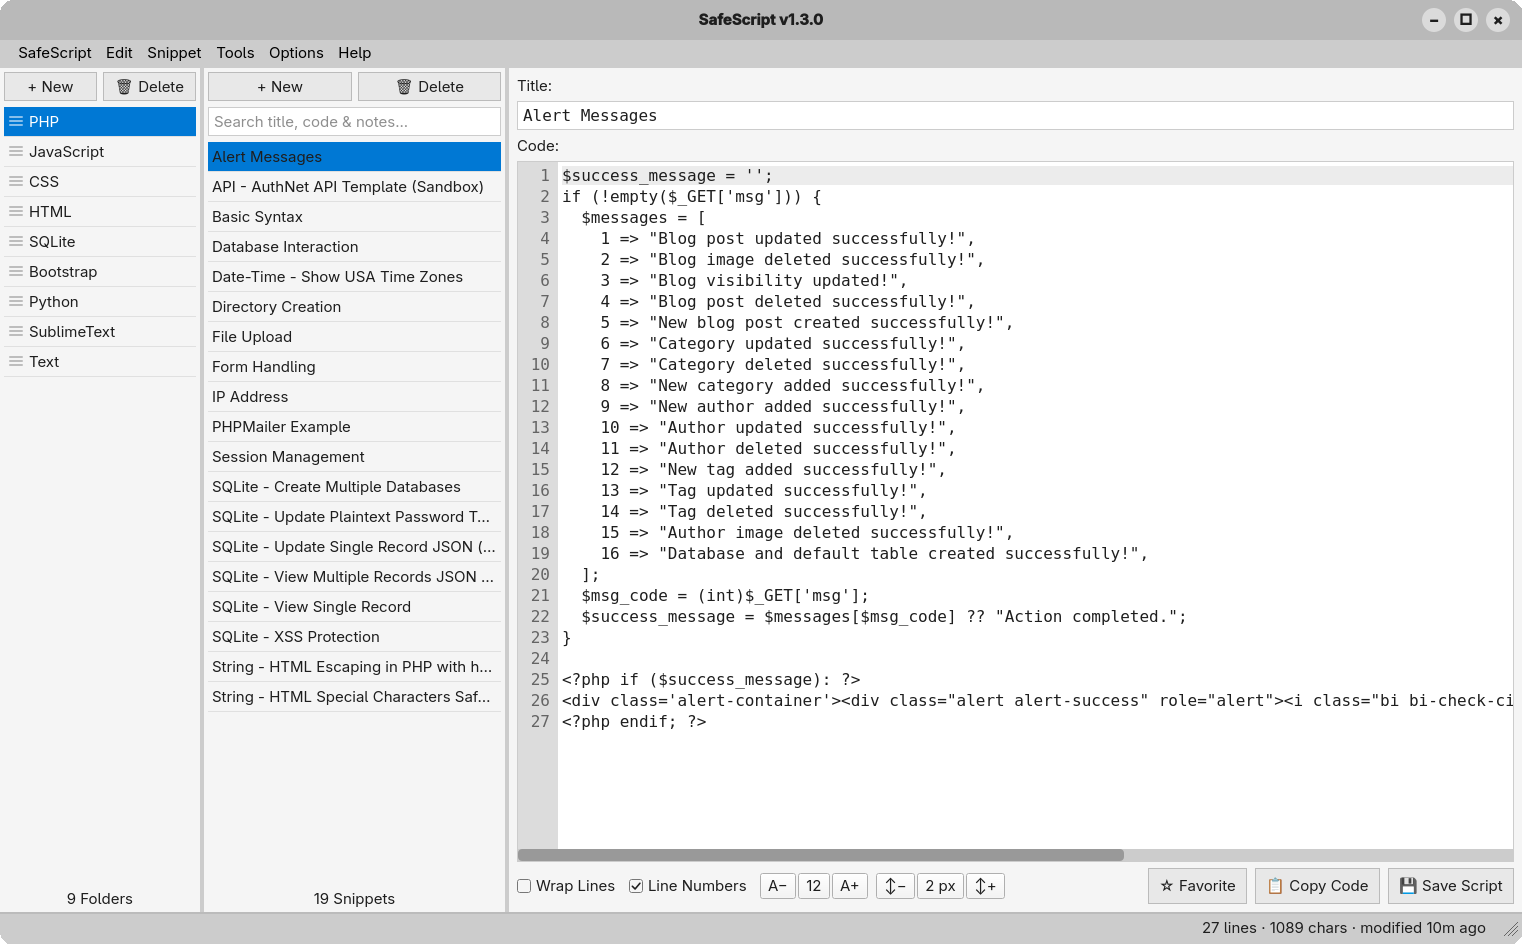
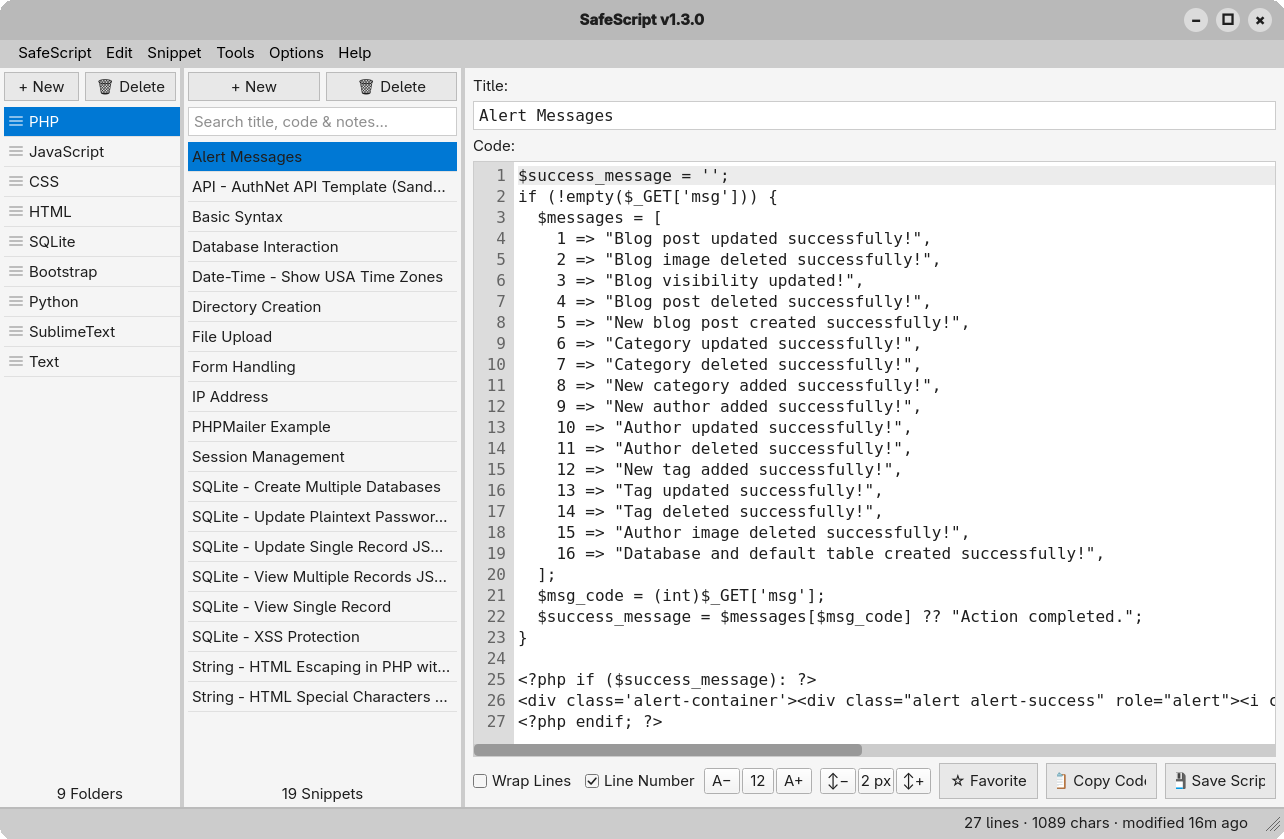
Showcase color schemes and refine dropdown styling

Changed region(s): [[0.0, 0.0, 1.0, 1.0], [0.4361, 0.0, 0.5607, 0.031], [0.7165, 0.8057, 0.7477, 0.8367]]

diff --git a/mainwindow.cpp b/mainwindow.cpp
@@ -323,7 +323,7 @@ protected:
         QMenu::paintEvent(event);
         const bool dark = palette().color(QPalette::Window).lightness() < 128;
         QPainter painter(this);
-        painter.setPen(dark ? QColor("#1a1a1a") : QColor("#cccccc"));
+        painter.setPen(dark ? palette().color(QPalette::Window).lighter(165) : QColor("#dddddd"));
         for (auto* item : actions()) {
             if (!item->isSeparator()) continue;
             const QRect separator = actionGeometry(item);
@@ -1215,7 +1215,10 @@ void MainWindow::applyThemeStyles() {
         codeEditor->gutterBackground = editorColor.darker(dark ? 150 : 114);
         const QColor textColor(scheme->text);
         codeEditor->gutterForeground = dark ? textColor.darker(140) : textColor;
-        chromeStyle += QStringLiteral("QMenuBar { background-color: %1; }").arg(chrome.name());
+        chromeStyle += QStringLiteral(
+            "QMenuBar { background-color: %1; }"
+            "QMenu { background-color: %2; }"
+        ).arg(chrome.name(), titleBackground.name());
         statusBar()->setStyleSheet(QStringLiteral("QStatusBar { background-color: %1; border-top: 2px solid %2; }")
                                       .arg(chrome.name(), scheme->border));
     }
@@ -1975,6 +1978,9 @@ void MainWindow::setupMenuBar() {
         };
         addPreview("Light Mode", ":/screenshot-light.png");
         addPreview("Dark Mode", ":/screenshot-dark.png");
+        addPreview("Midnight Blue", ":/screenshot-midnightblue.png");
+        addPreview("Forest", ":/screenshot-forest.png");
+        addPreview("Nord", ":/screenshot-nord.png");
         tabs->setCurrentIndex(darkModeEnabled ? 1 : 0);
         dialog.body->addWidget(tabs);
 

diff --git a/README.md b/README.md
@@ -5,6 +5,17 @@ A clean, fast code snippet manager for Linux built with Qt6.
 ![SafeScript Light Mode](screenshot-light.png)
 ![SafeScript Dark Mode](screenshot-dark.png)
 
+<details>
+<summary>Color scheme screenshots</summary>
+
+![SafeScript Midnight Blue](screenshot-midnightblue.png)
+
+![SafeScript Forest](screenshot-forest.png)
+
+![SafeScript Nord](screenshot-nord.png)
+
+</details>
+
 ## What's new in 1.3.0
 
 - **Snippet menu** for creating, saving, cloning, importing, exporting, and favoriting snippets. Import text and source files from the file picker or drop them into the selected category.
